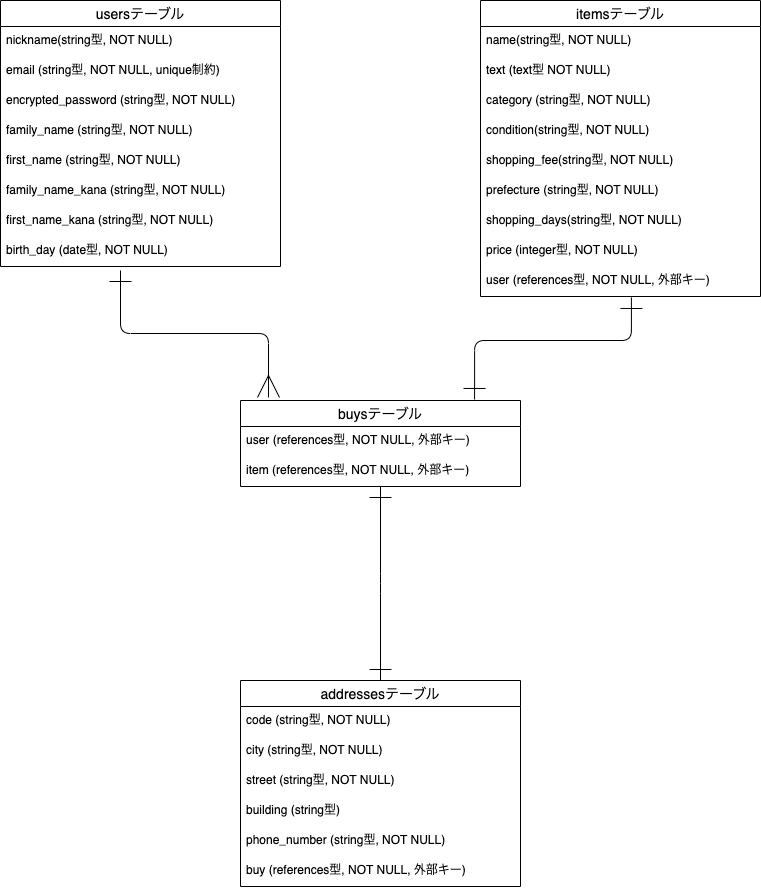
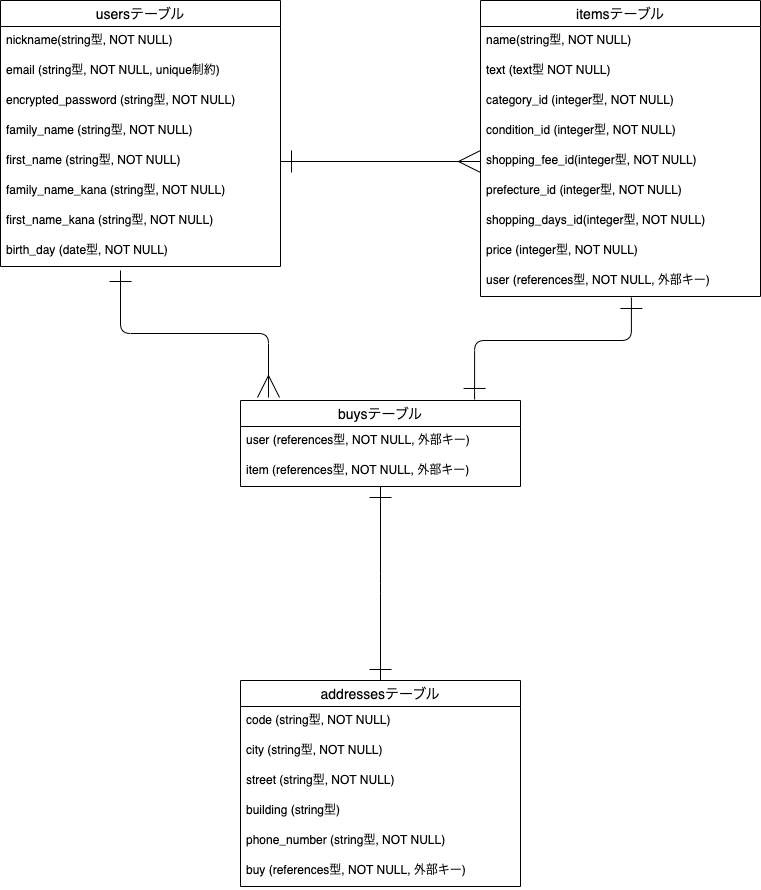
2回目の修正が完了しました

Changed region(s): [[0.6951, 0.091, 0.9067, 0.273], [0.6045, 0.1517, 0.6347, 0.182]]

diff --git a/README.md b/README.md
@@ -19,20 +19,20 @@
 
 ## items テーブル
 
-| Column        | Type       | Options                           |
-| ------------- | ---------- | --------------------------------- |
-| name          | string     | null: false                       |
-| text          | text       | null: false                       |
-| category      | string     | null: false                       |
-| condition     | string     | null: false                       |
-| shopping_fee  | string     | null: false                       |
-| prefecture    | string     | null: false                       |
-| shopping_days | string     | null: false                       |
-| price         | integer    | null: false                       |
-| user          | references | null: false, foreign_key: true    |
+| Column           | Type       | Options                           |
+| ---------------- | ---------- | --------------------------------- |
+| name             | string     | null: false                       |
+| text             | text       | null: false                       |
+| category_id      | integer    | null: false                       |
+| condition_id     | integer    | null: false                       |
+| shopping_fee_id  | integer    | null: false                       |
+| prefecture_id    | integer    | null: false                       |
+| shopping_days_id | integer    | null: false                       |
+| price            | integer    | null: false                       |
+| user             | references | null: false, foreign_key: true    |
 
 ### Association
-- belongs_to :buy
+- has_one :buy
 - belongs_to :user
 
 ## buys テーブル
@@ -44,14 +44,15 @@
 
 ### Association
 - belongs_to :user
-- has_one :items
-- has_one :addresses
+- belongs_to :item
+- has_one :address
 
 ## addresses テーブル
 
 | Column             | Type       | Options                       |
 | ------------------ | ---------- | ----------------------------- |
 | code               | string     | null: false                   |
+| prefecture_id      | integer    | null: false                   |
 | city               | string     | null: false                   |
 | street             | string     | null: false                   |
 | building           | string     |                               |
